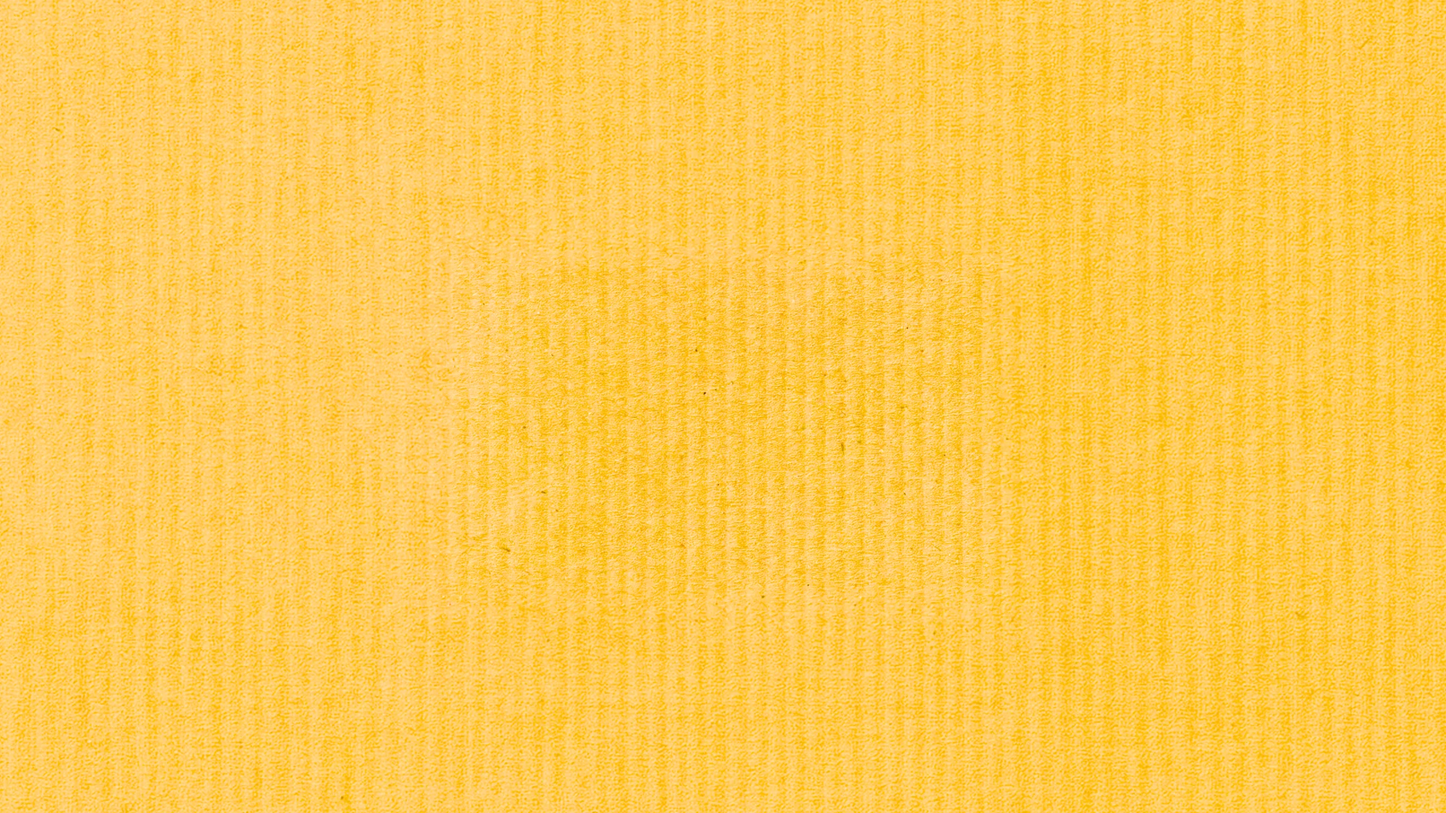
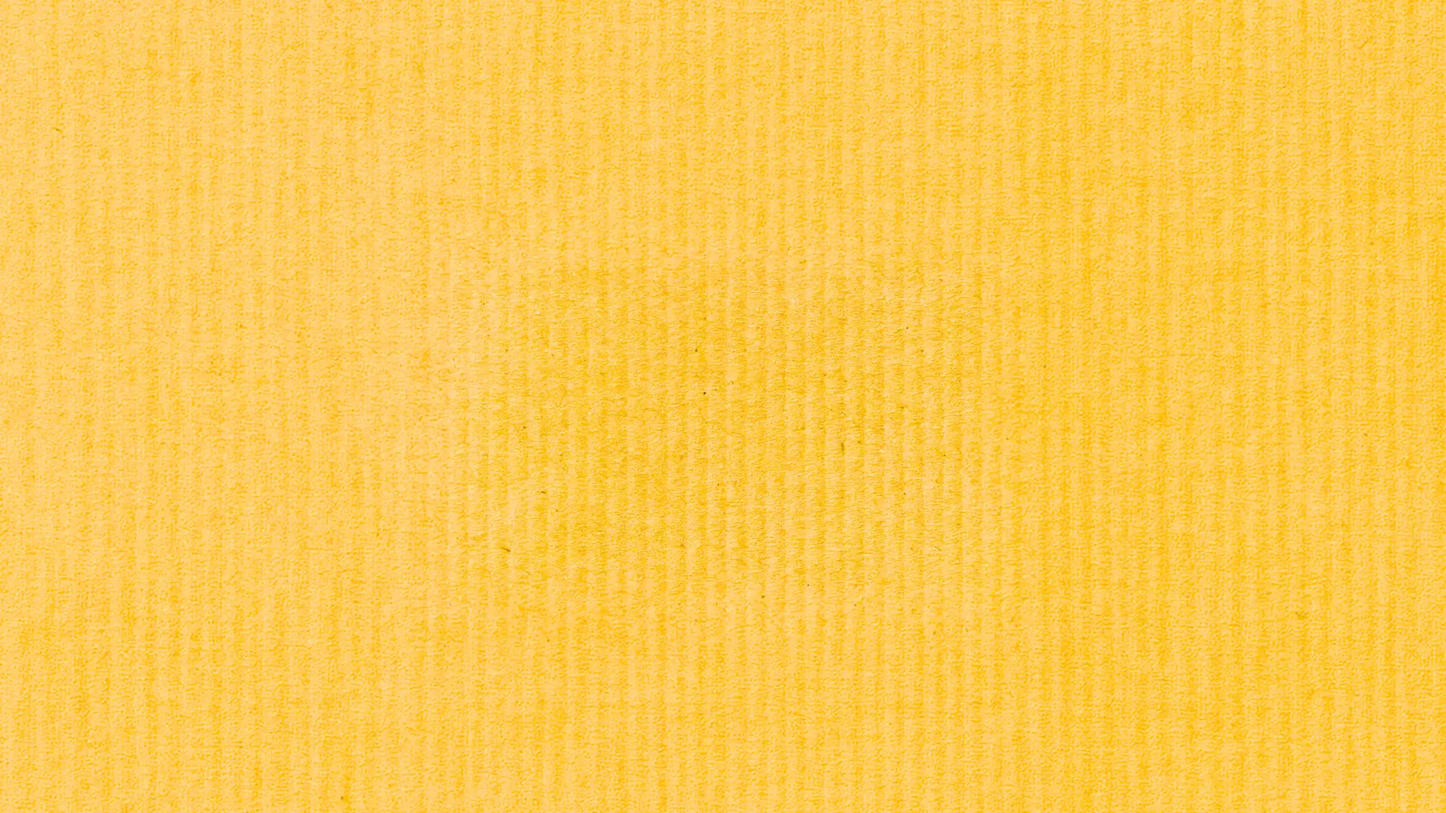
첫 화면 빠르게: 히어로 배경 먼저 받기·용량 줄임, 리치스태커 사진은 나중에, 안 쓰는 탑뷰 사진 안 받기
Claude-Session: https://claude.ai/code/session_01FsrsoNXQBGofTPYD7wHu6t

diff --git a/index.html b/index.html
@@ -1574,12 +1574,19 @@ const $=id=>document.getElementById(id);
 const easeIn=t=>t*t,easeOut=t=>1-(1-t)*(1-t);
 const LG=$('logiScene'),lgPin=$('lgPin'),lgSide=$('lgSide'),lgWorld=$('lgWorld'),lgCv=$('lgCv'),lgCtx=lgCv.getContext('2d');
 const LGN=140,LGF=[];const LGCX=[7, 7, 7, 7, 7, 7, 7, 7, 7, 7, 7, 7, 7, 7, 7, 7, 7, 7, 7, 7, 7, 7, 7, 7, 7, 7, 7, 7, 7, 7, 7, 7, 7, 7, 7, 7, 7, 7, 7, 7, 7, 7, 7.0, 6.9697, 6.8828, 6.7452, 6.5629, 6.3419, 6.088, 5.8074, 5.5059, 5.1895, 4.8642, 4.5358, 4.2105, 3.8941, 3.5926, 3.312, 3.0581, 2.8371, 2.6548, 2.5172, 2.4303, 2.4, 2.4, 2.3986, 2.3945, 2.3881, 2.3794, 2.3688, 2.3565, 2.3426, 2.3275, 2.3114, 2.2944, 2.2769, 2.259, 2.241, 2.2231, 2.2056, 2.1886, 2.1725, 2.1574, 2.1435, 2.1312, 2.1206, 2.1119, 2.1055, 2.1014, 2.1, 2.1, 2.1, 2.1, 2.1, 2.1, 2.1, 2.1, 2.1, 2.1, 2.1, 2.1, 2.1, 2.1, 2.1, 2.1, 2.1, 2.1, 2.1, 2.1, 2.1, 2.1, 2.1, 2.1, 2.1, 2.1, 2.1, 2.1, 2.1, 2.1, 2.1, 2.1, 2.1, 2.1, 2.1, 2.1, 2.1, 2.1, 2.1, 2.1, 2.1, 2.1, 2.1, 2.1, 2.1, 2.1, 2.1, 2.1, 2.1, 2.1, 2.1];let lgLast=-1;
-for(let i=0;i<LGN;i++){const im=new Image();im.decoding='async';im.src=`img/lg/f${String(i).padStart(3,'0')}.webp`;im.onload=()=>{if(i===lgLast)lgDraw(i,true)};LGF.push(im)}
+for(let i=0;i<LGN;i++){const im=new Image();im.decoding='async';im.onload=()=>{if(i===lgLast)lgDraw(i,true)};LGF.push(im)}
+// 리치스태커·트럭 사진(170여 장)은 첫 화면(박스 스토리)이 다 뜬 뒤에 받기 시작 → 히어로가 먼저 빨리 뜨게
+let lgLoaded=false;
+function lgLoad(){if(lgLoaded)return;lgLoaded=true;
+  LGF.forEach((im,i)=>im.src=`img/lg/f${String(i).padStart(3,'0')}.webp`);
+  TLF.forEach((im,i)=>im.src=`img/lg/t${String(i).padStart(2,'0')}.webp`);}
+{const fr=document.getElementById('bxFrame');fr.addEventListener('load',()=>setTimeout(lgLoad,800));setTimeout(lgLoad,8000);
+ addEventListener('scroll',()=>{if(scrollY>innerHeight*3)lgLoad();},{passive:true});}
 function lgDraw(i,force){if(i===lgLast&&!force)return;const im=LGF[i];if(!im.complete||!im.naturalWidth){for(let k=i;k>=0;k--)if(LGF[k].complete&&LGF[k].naturalWidth){lgCtx.clearRect(0,0,lgCv.width,lgCv.height);lgCtx.drawImage(LGF[k],0,0,lgCv.width,lgCv.height);break}lgLast=i;return}
   lgCtx.clearRect(0,0,lgCv.width,lgCv.height);lgCtx.drawImage(im,0,0,lgCv.width,lgCv.height);lgLast=i}
 lgCv.width=1600;lgCv.height=1000;
 /* 옆 → 위로 기울어지는 트럭 (직교 카메라, 화면 중심 = 트럭 중심 지면) */
-const TLN=31,TLF=[];for(let i=0;i<TLN;i++){const im=new Image();im.decoding='async';im.src=`img/lg/t${String(i).padStart(2,'0')}.webp`;TLF.push(im)}
+const TLN=31,TLF=[];for(let i=0;i<TLN;i++){const im=new Image();im.decoding='async';TLF.push(im)}   // src는 위 lgLoad()에서
 const lgTilt=$('lgTilt'),tCtx=lgTilt.getContext('2d'),lgTRoad=$('lgTRoad');let tLast=-1;
 function tDraw(i){if(i===tLast)return;const im=TLF[i];if(!im.complete||!im.naturalWidth)return;tCtx.clearRect(0,0,1600,1000);tCtx.drawImage(im,0,0,1600,1000);tLast=i}
 const UNIT=0.02124,COFF=-111.6; // 위에서 본 세계 1단위 = 0.02124m, 컨테이너 중심은 트럭 중심보다 111.6단위 뒤

diff --git a/boxstory.html b/boxstory.html
@@ -2,6 +2,7 @@
 <html lang="ko">
 <head>
 <meta name="robots" content="noindex,nofollow,noarchive">
+<link rel="preload" as="image" href="img/hero/hero_bg.webp" fetchpriority="high">   <!-- 히어로 골판지 배경 먼저 받기 -->
 <meta charset="utf-8">
 <meta name="viewport" content="width=device-width, initial-scale=1">
 <title>박스 스토리 · 포트폴리오 시안</title>
@@ -158,7 +159,7 @@ const BELT_Y=-30, BELT_UP=-140;
 const MAIN={w:60.32,h:39.6,d:40.32};
 const KINDS={A:{w:30.32,h:21.6,d:24.32},B:{w:42.32,h:27.6,d:31.32},C:{w:50.32,h:32.6,d:38.32},D:{w:60.32,h:41.6,d:44.32}};
 // 탑뷰 컨베이어 렌더 이미지 (블렌더). 탑뷰 화면 캡처와 1:1로 맞춰 뽑은 이미지라 TOPCAM 기준으로 바닥에 깖
-const CONV={src:'img/conveyor_top_web.png',pw:2576,ph:1245};
+const CONV={src:'img/conveyor_top_web.png',pw:2576,ph:1245,use:false};   // use:true면 탑뷰 렌더 사진 다시 받음
 // 히어로 로고 위치 (시안 기준: 화면 너비 40%, 화면 높이 39.3% 지점) → GLB 상자 앞면 로고(폭 0.42m)와 겹치게 카메라 배치
 const HERO_LOGO={wFrac:0.40,cy:0.393,logoW:42,logoY:20};
 // 남은 CSS 벨트 윗면 색 (렌더 이미지의 회색에 맞춤). 예전 초록으로 되돌리려면 GRN
@@ -334,7 +335,7 @@ function build(){
     const cb=convBounds(), nx=8, ny=4, tw=(cb.x1-cb.x0)/nx, th=(cb.z1-cb.z0)/ny;
     for(let ix=0;ix<nx;ix++) for(let iz=0;iz<ny;iz++)
       convTiles.push(plane(S,tw+0.4,th+0.4,T(cb.x0+tw*(ix+.5),BELT_UP-0.3,cb.z0+th*(iz+.5))+' rotateX(90deg)','f',{
-        backgroundImage:`url(${CONV.src})`,backgroundRepeat:'no-repeat',
+        backgroundImage:CONV.use?`url(${CONV.src})`:'none',backgroundRepeat:'no-repeat',   // 탑뷰 렌더 사진 안 쓰는 동안은 받지도 않음 (2.5MB)
         backgroundSize:`${(cb.x1-cb.x0)*U}px ${(cb.z1-cb.z0)*U}px`,
         backgroundPosition:`${-(tw*ix-0.2)*U}px ${-(th*iz-0.2)*U}px`}));
   }
